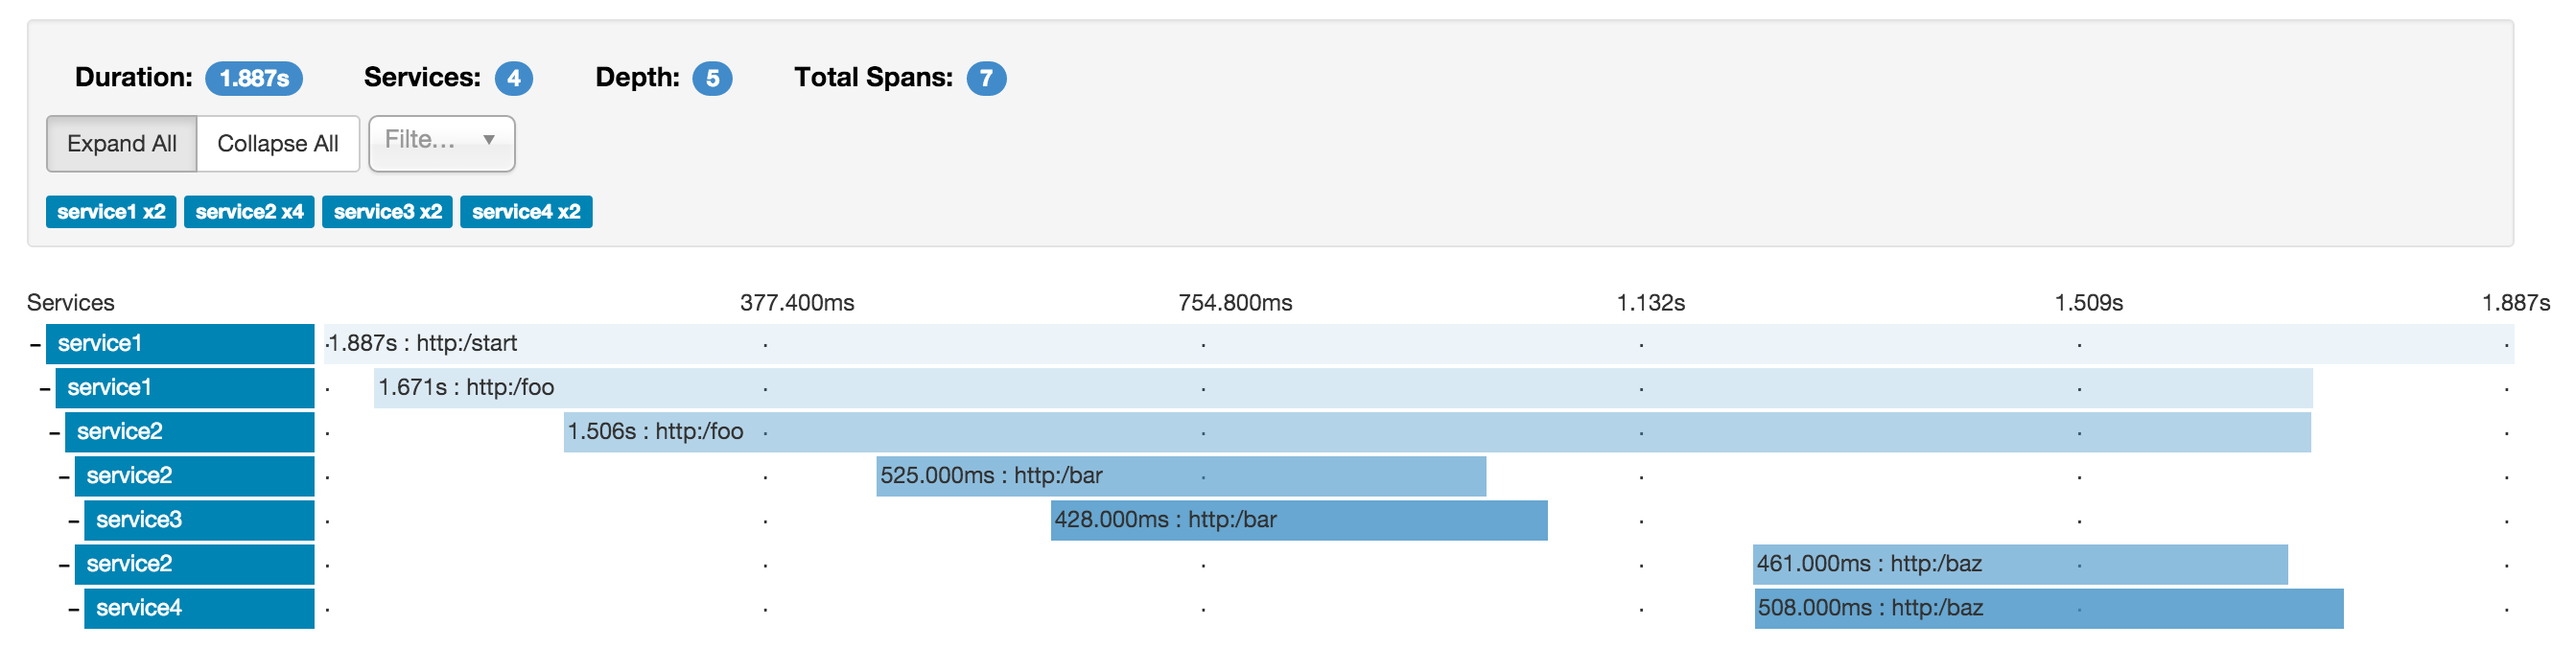
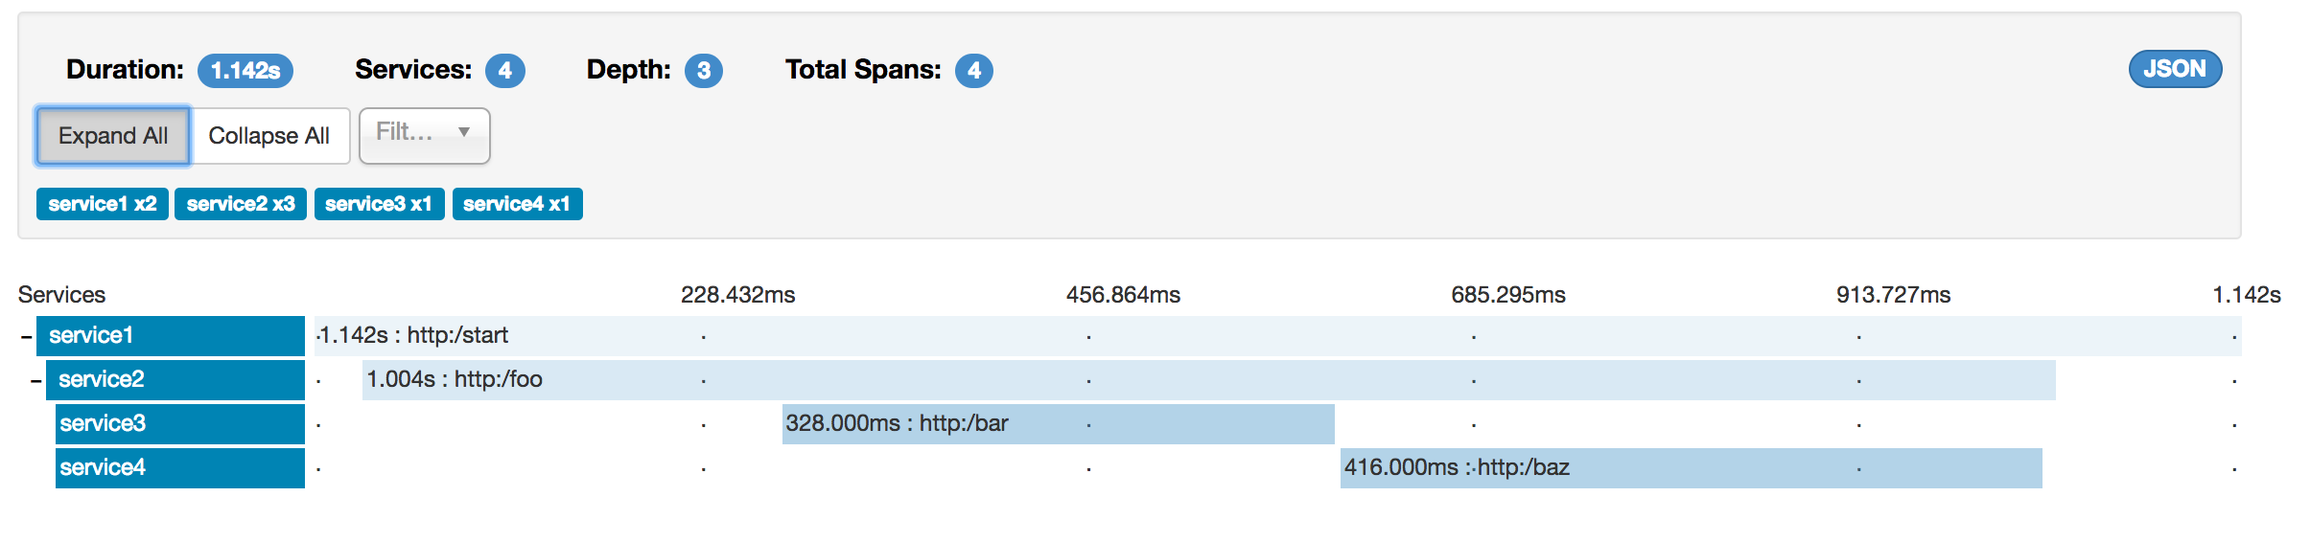
Sync docs from 1.0.x to gh-pages

diff --git a/1.0.x/index.html b/1.0.x/index.html
@@ -431,6 +431,8 @@ body.book #toc,body.book #preamble,body.book h1.sect0,body.book .sect1>h2{page-b
 <li><a href="#_purpose">Purpose</a>
 <ul class="sectlevel3">
 <li><a href="#_distributed_tracing_with_zipkin">Distributed tracing with Zipkin</a></li>
+<li><a href="#_visualizing_errors">Visualizing errors</a></li>
+<li><a href="#_live_examples">Live examples</a></li>
 <li><a href="#_log_correlation">Log correlation</a>
 <ul class="sectlevel4">
 <li><a href="#_json_logback_with_logstash">JSON Logback with Logstash</a></li>
@@ -589,7 +591,7 @@ will receive the whole time needed by the client to receive the response from th
 </div>
 <div class="imageblock">
 <div class="content">
-<img src="https://raw.githubusercontent.com/spring-cloud/spring-cloud-sleuth/master/docs/src/main/asciidoc/images/trace-id.png" alt="Trace Info propagation">
+<img src="https://raw.githubusercontent.com/spring-cloud/spring-cloud-sleuth/1.0.x/docs/src/main/asciidoc/images/trace-id.png" alt="Trace Info propagation">
 </div>
 </div>
 <div class="paragraph">
@@ -611,7 +613,7 @@ Client Sent</code></pre>
 </div>
 <div class="imageblock">
 <div class="content">
-<img src="https://raw.githubusercontent.com/spring-cloud/spring-cloud-sleuth/master/docs/src/main/asciidoc/images/parents.png" alt="Parent child relationship">
+<img src="https://raw.githubusercontent.com/spring-cloud/spring-cloud-sleuth/1.0.x/docs/src/main/asciidoc/images/parents.png" alt="Parent child relationship">
 </div>
 </div>
 </div>
@@ -623,19 +625,19 @@ Client Sent</code></pre>
 <div class="sect3">
 <h4 id="_distributed_tracing_with_zipkin">Distributed tracing with Zipkin</h4>
 <div class="paragraph">
-<p>Altogether there are <strong>10 spans</strong> . If you go to traces in Zipkin you will see this number:</p>
+<p>Altogether there are <strong>7 spans</strong> . If you go to traces in Zipkin you will see this number in the second trace:</p>
 </div>
 <div class="imageblock">
 <div class="content">
-<img src="https://raw.githubusercontent.com/spring-cloud/spring-cloud-sleuth/master/docs/src/main/asciidoc/images/zipkin-traces.png" alt="Traces">
+<img src="https://raw.githubusercontent.com/spring-cloud/spring-cloud-sleuth/1.0.x/docs/src/main/asciidoc/images/zipkin-traces.png" alt="Traces">
 </div>
 </div>
 <div class="paragraph">
-<p>However if you pick a particular trace then you will see <strong>7 spans</strong>:</p>
+<p>However if you pick a particular trace then you will see <strong>4 spans</strong>:</p>
 </div>
 <div class="imageblock">
 <div class="content">
-<img src="https://raw.githubusercontent.com/spring-cloud/spring-cloud-sleuth/master/docs/src/main/asciidoc/images/zipkin-ui.png" alt="Traces Info propagation">
+<img src="https://raw.githubusercontent.com/spring-cloud/spring-cloud-sleuth/1.0.x/docs/src/main/asciidoc/images/zipkin-ui.png" alt="Traces Info propagation">
 </div>
 </div>
 <div class="admonitionblock note">
@@ -653,47 +655,71 @@ annotations then they will presented as a single span.
 </table>
 </div>
 <div class="paragraph">
-<p>In the image depicting the visualization of what <strong>Span</strong> and <strong>Trace</strong> is you can see 20
-colorful labels. How does it happen that in Zipkin 10 spans are received?</p>
+<p>Why is there a difference between the 7 and 4 spans in this case?</p>
 </div>
 <div class="ulist">
 <ul>
 <li>
-<p>2 span <strong>A</strong> labels signify span started and closed. Upon closing a single span is sent to Zipkin.</p>
+<p>2 spans come from <code>http:/start</code> span. It has the Server Received (SR) and Server Sent (SS) annotations.</p>
 </li>
 <li>
-<p>4 span <strong>B</strong> labels are in fact are single span with 4 annotations. However this span is composed of
-two separate instances. One sent from service 1 and one from service 2. So in fact two span instances will be sent
-to Zipkin and merged there.</p>
+<p>2 spans come from the RPC call from <code>service1</code> to <code>service2</code> to the <code>http:/foo</code> endpoint. It has the Client Sent (CS)
+and Client Received (CR) annotations on <code>service1</code> side. It also has Server Received (SR) and Server Sent (SS) annotations
+on the <code>service2</code> side. Physically there are 2 spans but they form 1 logical span related to an RPC call.</p>
 </li>
 <li>
-<p>2 span <strong>C</strong> labels signify span started and closed. Upon closing a single span is sent to Zipkin.</p>
+<p>2 spans come from the RPC call from <code>service2</code> to <code>service3</code> to the <code>http:/bar</code> endpoint. It has the Client Sent (CS)
+and Client Received (CR) annotations on <code>service2</code> side. It also has Server Received (SR) and Server Sent (SS) annotations
+on the <code>service3</code> side. Physically there are 2 spans but they form 1 logical span related to an RPC call.</p>
 </li>
 <li>
-<p>4 span <strong>B</strong> labels are in fact are single span with 4 annotations. However this span is composed of
-two separate instances. One sent from service 2 and one from service 3. So in fact two span instances will be sent
-to Zipkin and merged there.</p>
-</li>
-<li>
-<p>2 span <strong>E</strong> labels signify span started and closed. Upon closing a single span is sent to Zipkin.</p>
-</li>
-<li>
-<p>4 span <strong>B</strong> labels are in fact are single span with 4 annotations. However this span is composed of
-two separate instances. One sent from service 2 and one from service 4. So in fact two span instances will be sent
-to Zipkin and merged there.</p>
-</li>
-<li>
-<p>2 span <strong>G</strong> labels signify span started and closed. Upon closing a single span is sent to Zipkin.</p>
+<p>2 spans come from the RPC call from <code>service2</code> to <code>service4</code> to the <code>http:/baz</code> endpoint. It has the Client Sent (CS)
+and Client Received (CR) annotations on <code>service2</code> side. It also has Server Received (SR) and Server Sent (SS) annotations
+on the <code>service4</code> side. Physically there are 2 spans but they form 1 logical span related to an RPC call.</p>
 </li>
 </ul>
 </div>
 <div class="paragraph">
-<p>So 1 span from <strong>A</strong>, 2 spans from <strong>B</strong>, 1 span from <strong>C</strong>, 2 spans from <strong>D</strong>, 1 span from <strong>E</strong>, 2 spans from <strong>F</strong> and 1 from <strong>G</strong>.
-Altogether <strong>10</strong> spans.</p>
+<p>So if we count the physical spans we have <strong>1</strong> from <code>http:/start</code>, <strong>2</strong> from <code>service1</code> calling <code>service2</code>, <strong>2</strong> form <code>service2</code>
+calling <code>service3</code> and <strong>2</strong> from <code>service2</code> calling <code>service4</code>. Altogether <strong>7</strong> spans.</p>
+</div>
+<div class="paragraph">
+<p>Logically we see the information of <strong>Total Spans: 4</strong> because we have <strong>1</strong> span related to the incoming request
+to <code>service1</code> and <strong>3</strong> spans related to RPC calls.</p>
+</div>
+</div>
+<div class="sect3">
+<h4 id="_visualizing_errors">Visualizing errors</h4>
+<div class="paragraph">
+<p>Zipkin allows you to visualize errors in your trace. When an exception was thrown and wasn&#8217;t caught then we&#8217;re
+setting proper tags on the span which Zipkin can properly colorize. You could see in the list of traces one
+  trace that was in red color. That&#8217;s because there was an exception thrown.</p>
+</div>
+<div class="paragraph">
+<p>If you click that trace then you&#8217;ll see a similar picture</p>
 </div>
 <div class="imageblock">
 <div class="content">
-<a class="image" href="http://docssleuth-zipkin-server.cfapps.io/"><img src="https://raw.githubusercontent.com/spring-cloud/spring-cloud-sleuth/master/docs/src/main/asciidoc/images/pws.png" alt="Zipkin deployed on Pivotal Web Services" width="150" height="74"></a>
+<img src="https://raw.githubusercontent.com/spring-cloud/spring-cloud-sleuth/1.0.x/docs/src/main/asciidoc/images/zipkin-error-traces.png" alt="Error Traces">
+</div>
+</div>
+<div class="paragraph">
+<p>Then if you click on one of the spans you&#8217;ll see the following</p>
+</div>
+<div class="imageblock">
+<div class="content">
+<img src="https://raw.githubusercontent.com/spring-cloud/spring-cloud-sleuth/1.0.x/docs/src/main/asciidoc/images/zipkin-error-trace-screenshot.png" alt="Error Traces Info propagation">
+</div>
+</div>
+<div class="paragraph">
+<p>As you can see you can easily see the reason for an error and the whole stacktrace related to it.</p>
+</div>
+</div>
+<div class="sect3">
+<h4 id="_live_examples">Live examples</h4>
+<div class="imageblock">
+<div class="content">
+<a class="image" href="http://docssleuth-zipkin-server.cfapps.io/"><img src="https://raw.githubusercontent.com/spring-cloud/spring-cloud-sleuth/1.0.x/docs/src/main/asciidoc/images/pws.png" alt="Zipkin deployed on Pivotal Web Services" width="150" height="74"></a>
 </div>
 <div class="title">Click Pivotal Web Services icon to see it live!Click Pivotal Web Services icon to see it live!</div>
 </div>
@@ -702,12 +728,12 @@ Altogether <strong>10</strong> spans.</p>
 </div>
 <div class="imageblock">
 <div class="content">
-<img src="https://raw.githubusercontent.com/spring-cloud/spring-cloud-sleuth/master/docs/src/main/asciidoc/images/dependencies.png" alt="Dependencies">
+<img src="https://raw.githubusercontent.com/spring-cloud/spring-cloud-sleuth/1.0.x/docs/src/main/asciidoc/images/dependencies.png" alt="Dependencies">
 </div>
 </div>
 <div class="imageblock">
 <div class="content">
-<a class="image" href="http://docssleuth-zipkin-server.cfapps.io/dependency"><img src="https://raw.githubusercontent.com/spring-cloud/spring-cloud-sleuth/master/docs/src/main/asciidoc/images/pws.png" alt="Zipkin deployed on Pivotal Web Services" width="150" height="74"></a>
+<a class="image" href="http://docssleuth-zipkin-server.cfapps.io/dependency"><img src="https://raw.githubusercontent.com/spring-cloud/spring-cloud-sleuth/1.0.x/docs/src/main/asciidoc/images/pws.png" alt="Zipkin deployed on Pivotal Web Services" width="150" height="74"></a>
 </div>
 <div class="title">Click Pivotal Web Services icon to see it live!Click Pivotal Web Services icon to see it live!</div>
 </div>
@@ -735,7 +761,7 @@ Kibana would look like this:</p>
 </div>
 <div class="imageblock">
 <div class="content">
-<img src="https://raw.githubusercontent.com/spring-cloud/spring-cloud-sleuth/master/docs/src/main/asciidoc/images/kibana.png" alt="Log correlation with Kibana">
+<img src="https://raw.githubusercontent.com/spring-cloud/spring-cloud-sleuth/1.0.x/docs/src/main/asciidoc/images/kibana.png" alt="Log correlation with Kibana">
 </div>
 </div>
 <div class="paragraph">
@@ -796,7 +822,7 @@ we&#8217;re passing the dependencies in the <code>groupId:artifactId:version</co
 <p><strong>Logback setup</strong></p>
 </div>
 <div class="paragraph">
-<p>Below you can find an example of a Logback configuration (file named <code>https://github.com/spring-cloud-samples/sleuth-documentation-apps/blob/master/service1/src/main/resources/logback-spring.xml[logback-spring.xml]</code>) that:</p>
+<p>Below you can find an example of a Logback configuration (file named <a href="https://github.com/spring-cloud-samples/sleuth-documentation-apps/blob/master/service1/src/main/resources/logback-spring.xml">logback-spring.xml</a>) that:</p>
 </div>
 <div class="ulist">
 <ul>
